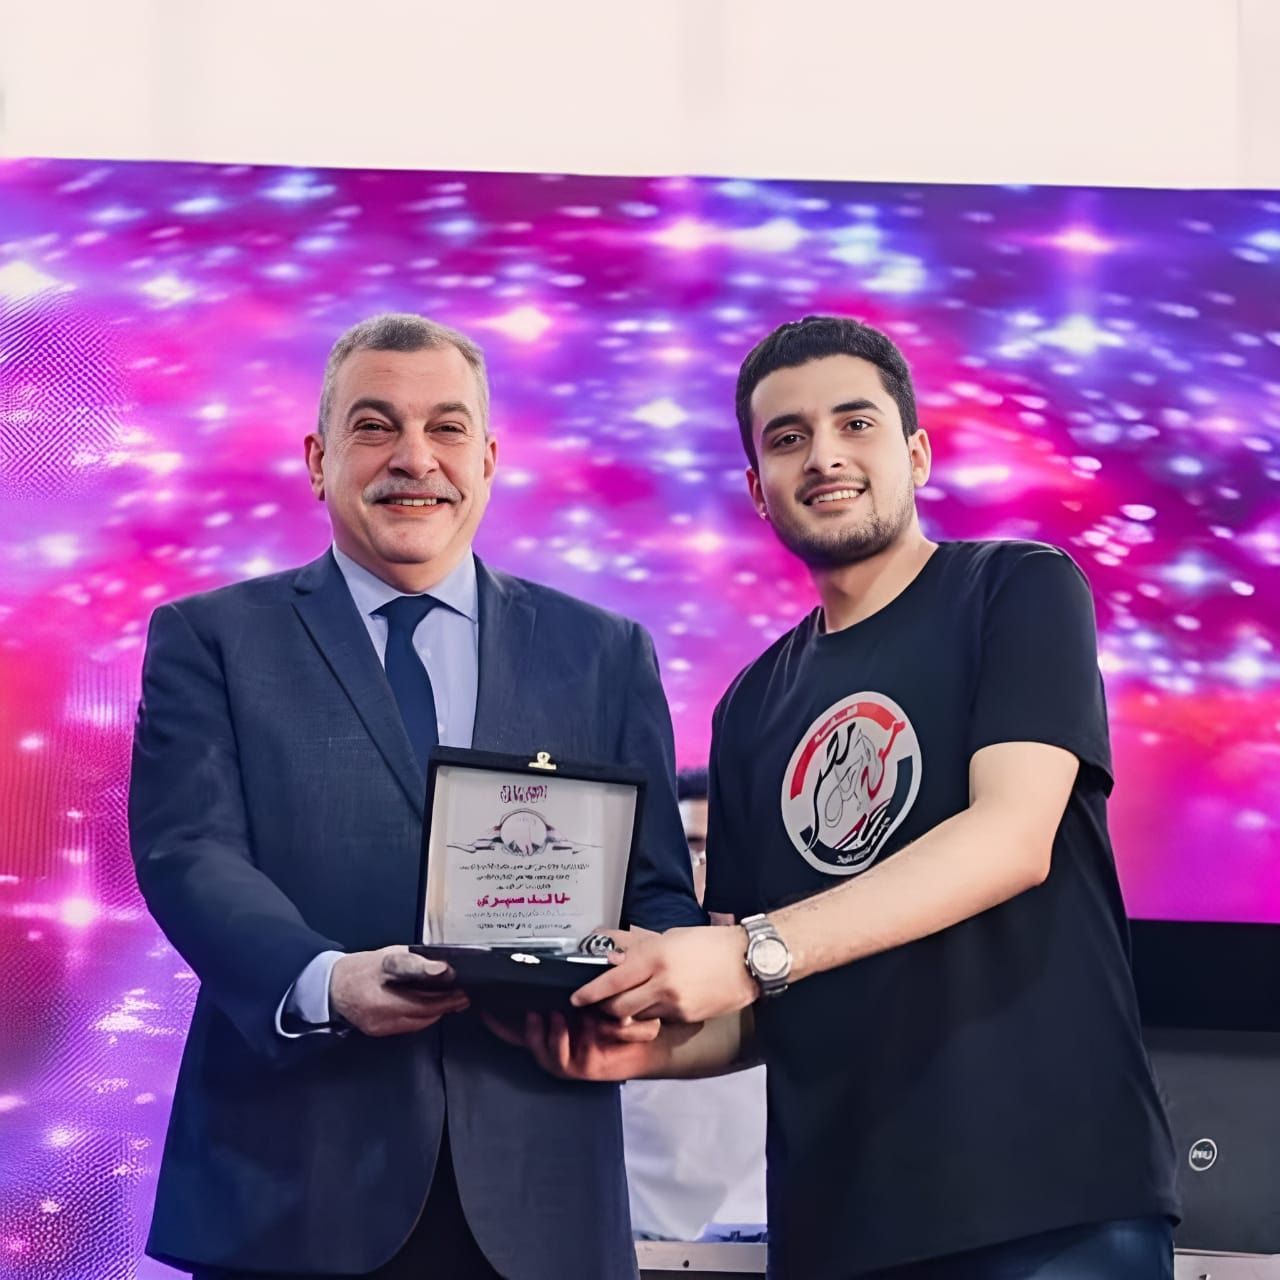
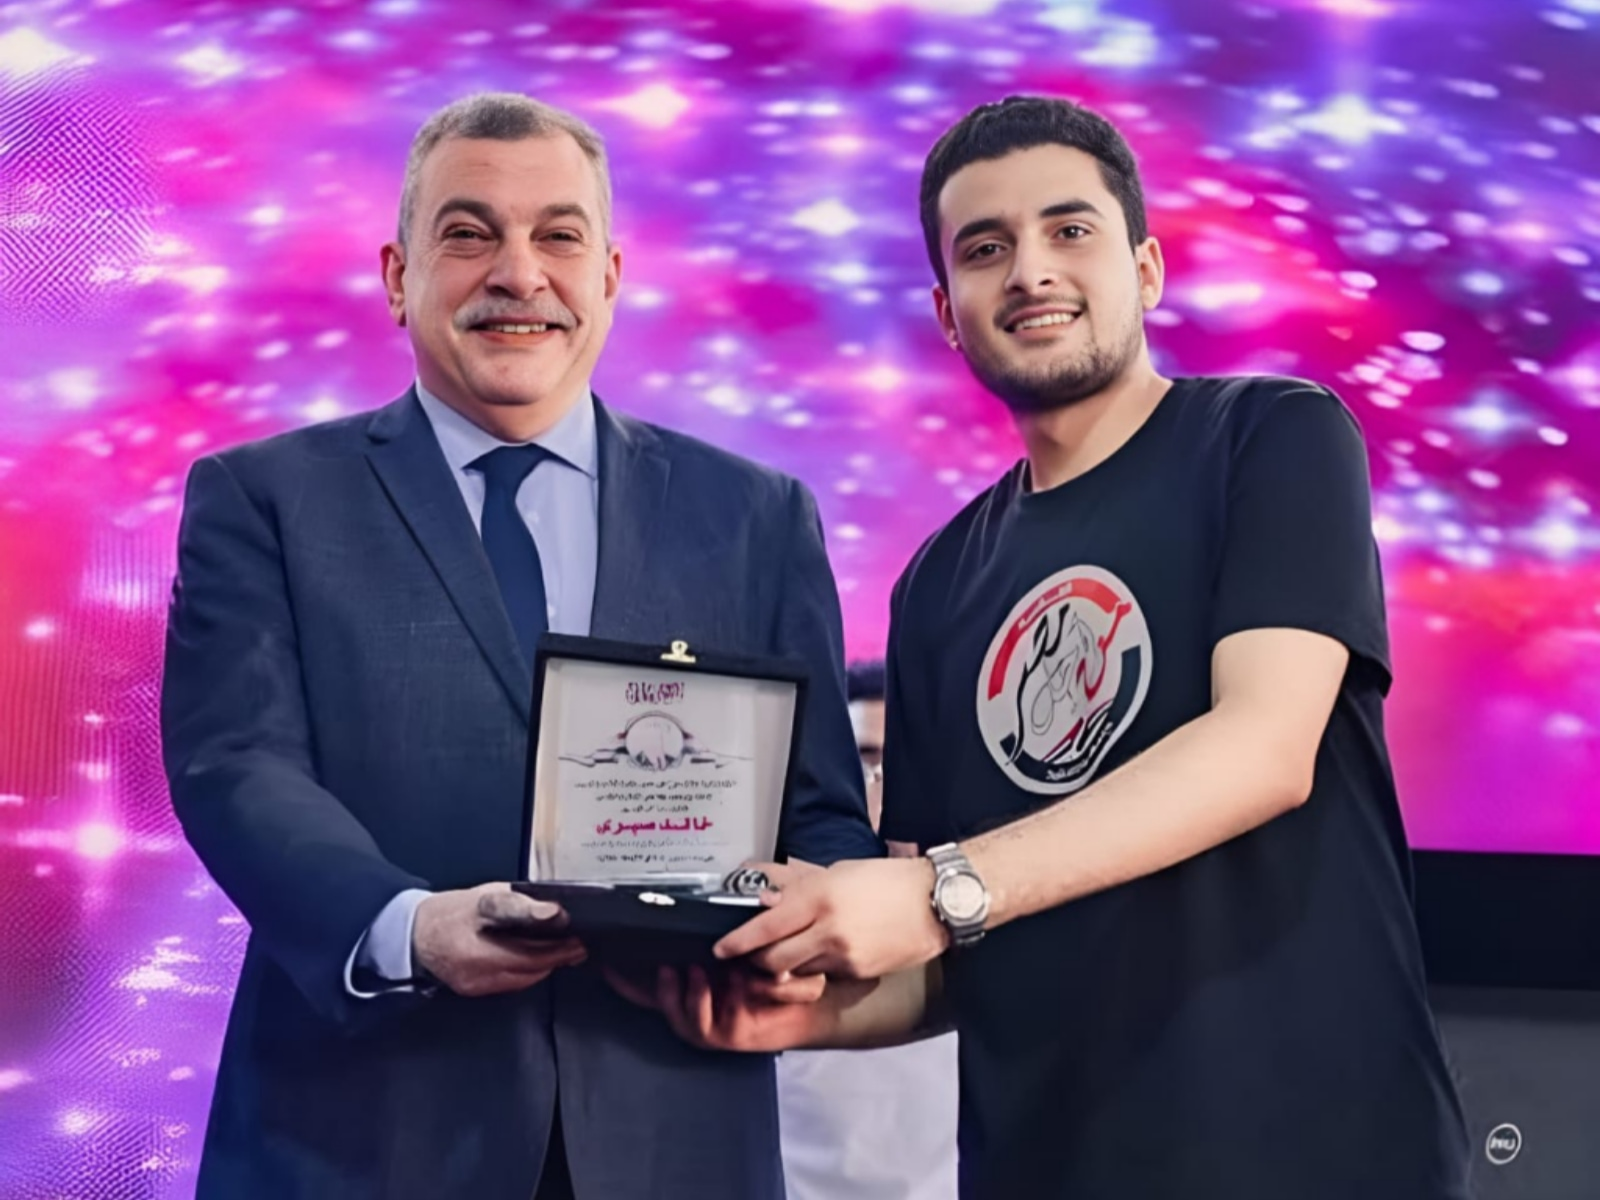
(campus) changing dr mohamed pic

diff --git a/app/Components/Campus/Campus.jsx b/app/Components/Campus/Campus.jsx
@@ -1,7 +1,7 @@
 // eslint-disable-next-line
 import React from "react";
 import gallery_1 from "../../assets/c1.jpg";
-import gallery_2 from "../../assets/c2.jpg";
+import gallery_2 from "../../assets/c2.jpeg";
 import gallery_3 from "../../assets/c4.jpg";
 import gallery_4 from "../../assets/c5.jpg";
 import white_arrow from "../../assets/white-arrow.png";
